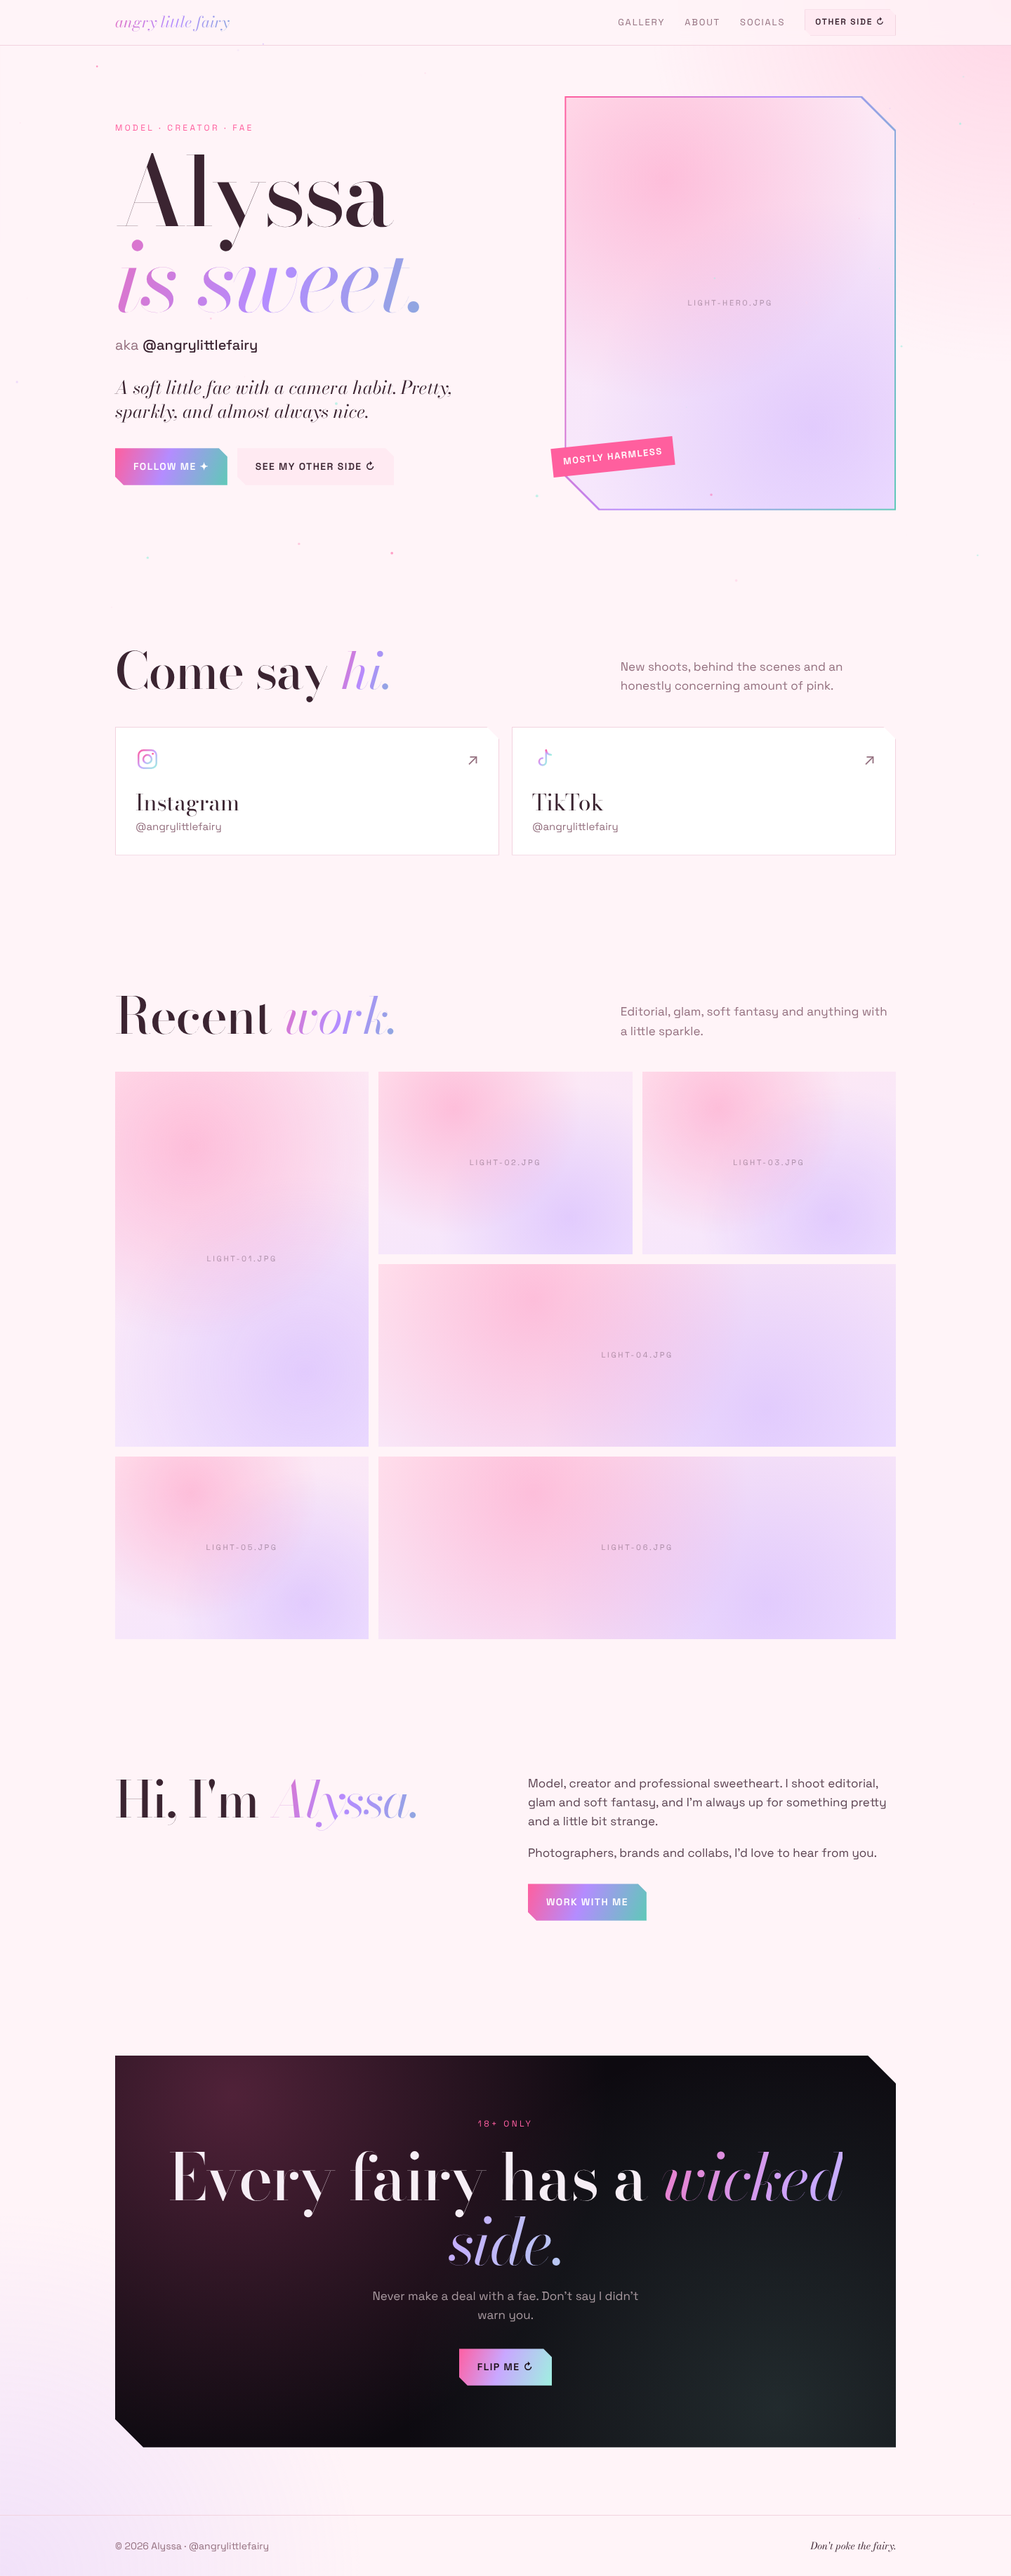
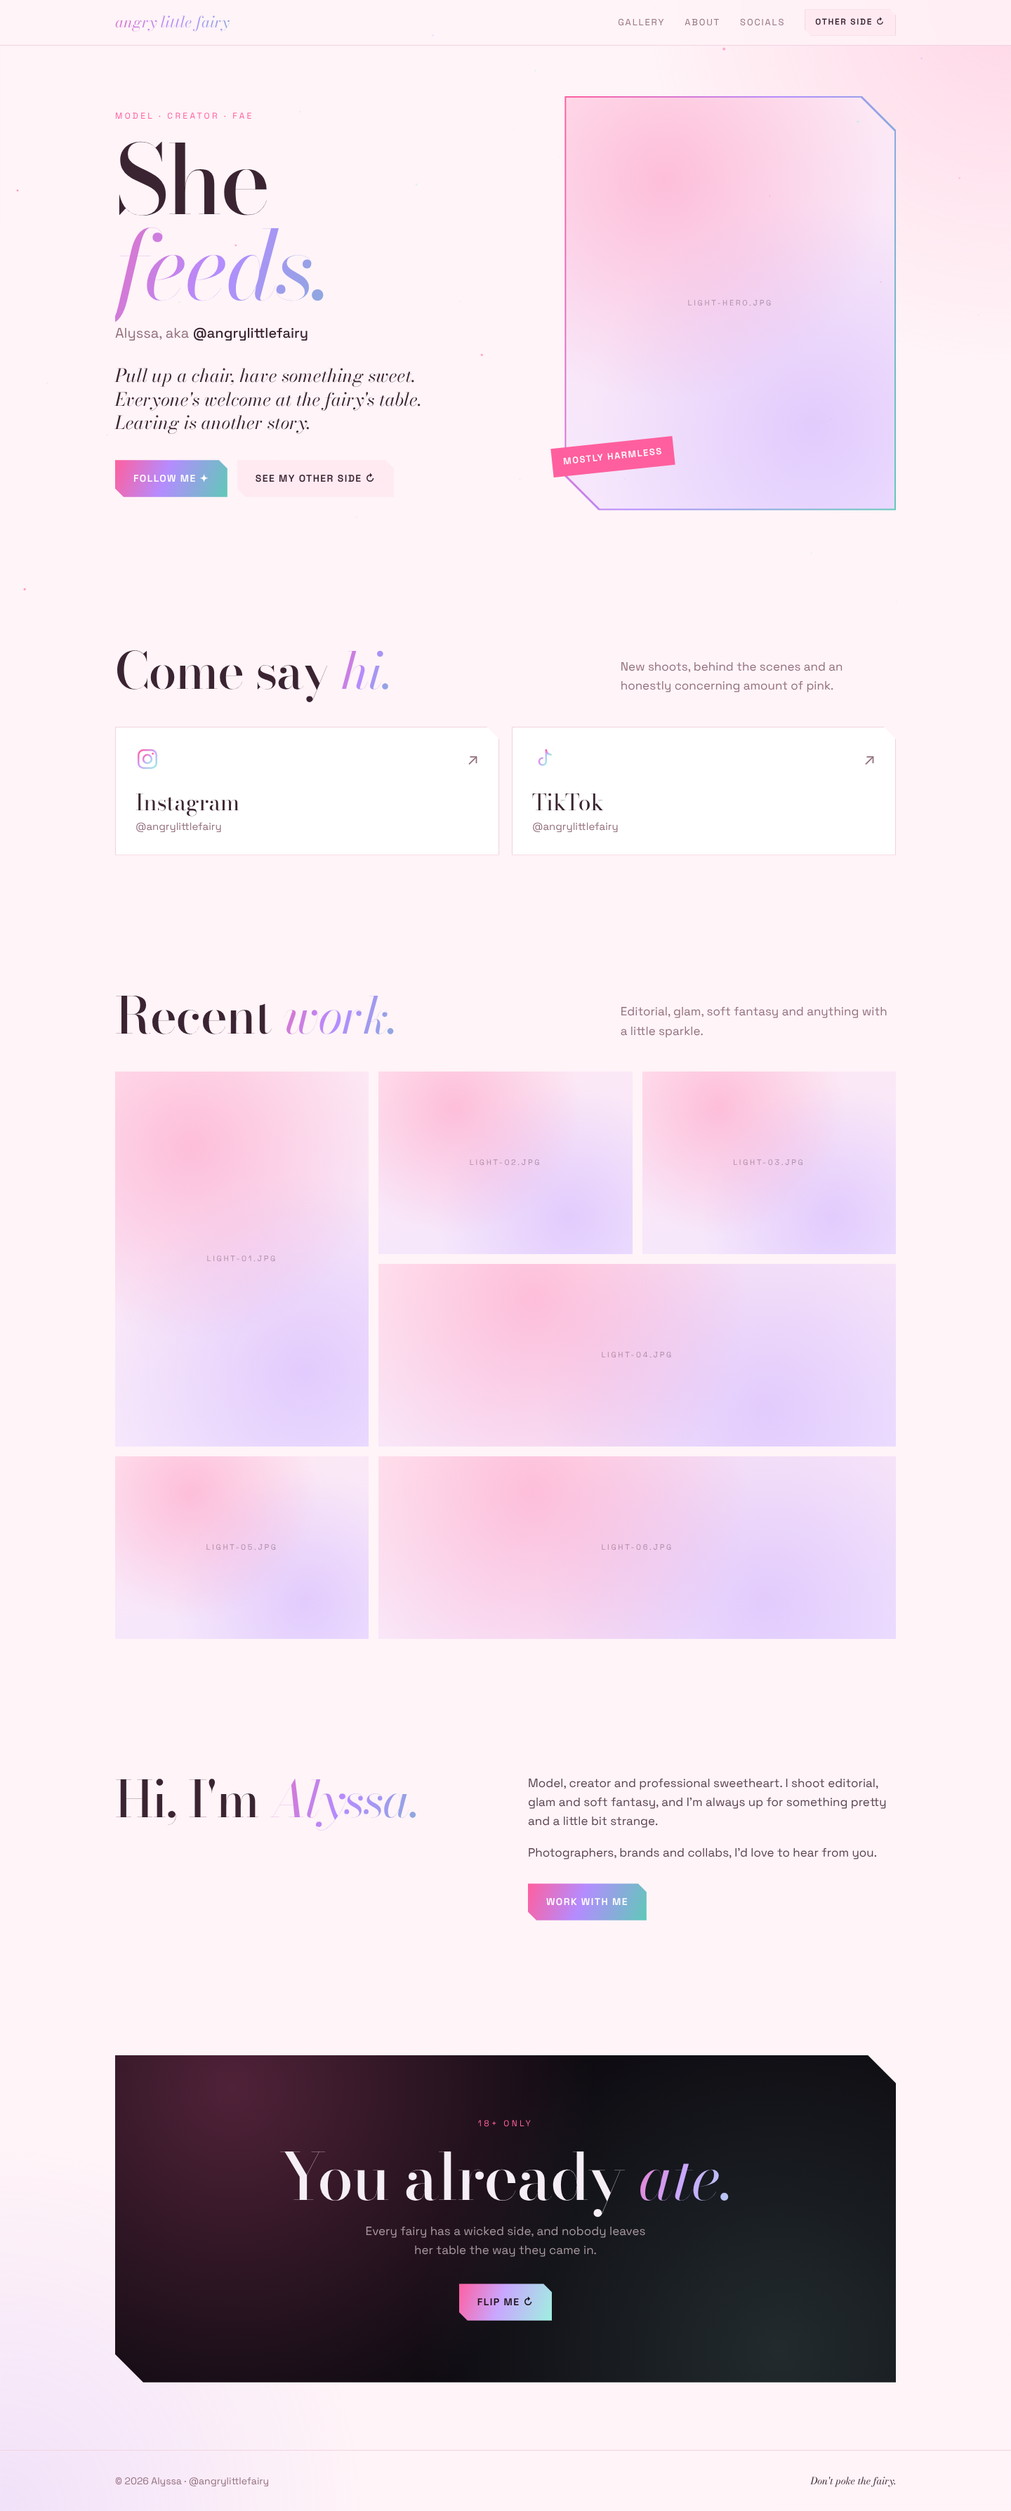
Fairy-food copy: sweet side 'She feeds', wicked side 'You pay'
Claude-Session: https://claude.ai/code/session_01Csc1tEQz1VbwPjDFxQWG6q

diff --git a/angrylittlefairy-site/index.html b/angrylittlefairy-site/index.html
@@ -4,9 +4,9 @@
 <meta charset="utf-8">
 <meta name="viewport" content="width=device-width, initial-scale=1">
 <title>Alyssa · @angrylittlefairy</title>
-<meta name="description" content="Alyssa, aka @angrylittlefairy. Model, creator and a sweet little fae. Mostly.">
+<meta name="description" content="Alyssa, aka @angrylittlefairy. Model, creator and a sweet little fae. She feeds.">
 <meta property="og:title" content="Alyssa · @angrylittlefairy">
-<meta property="og:description" content="Model, creator and a sweet little fae. Mostly.">
+<meta property="og:description" content="Model, creator and a sweet little fae. She feeds.">
 <meta property="og:image" content="https://angrylittlefairy.com/images/light-hero.jpg">
 <meta property="og:url" content="https://angrylittlefairy.com">
 <meta property="og:type" content="website">
@@ -289,10 +289,10 @@
       <div class="wrap">
         <div>
           <p class="eyebrow">Model · Creator · Fae</p>
-          <h1>Alyssa<br><em class="shimmer-text">is sweet.</em></h1>
-          <p class="handle">aka <b>@angrylittlefairy</b></p>
+          <h1>She<br><em class="shimmer-text">feeds.</em></h1>
+          <p class="handle">Alyssa, aka <b>@angrylittlefairy</b></p>
           <!-- EDIT: sweet side tagline -->
-          <p class="tagline">A soft little fae with a camera habit. Pretty, sparkly, and almost always nice.</p>
+          <p class="tagline">Pull up a chair, have something sweet. Everyone's welcome at the fairy's table. Leaving is another story.</p>
           <div class="cta-row">
             <a class="btn btn-primary" href="#l-links">Follow me ✦</a>
             <button class="btn btn-ghost" data-flip="dark">See my other side ↻</button>
@@ -370,8 +370,8 @@
       <div class="wrap">
         <div class="card">
           <p class="eyebrow">18+ only</p>
-          <h2>Every fairy has a <em class="shimmer-text">wicked side.</em></h2>
-          <p class="sub">Never make a deal with a fae. Don't say I didn't warn you.</p>
+          <h2>You already <em class="shimmer-text">ate.</em></h2>
+          <p class="sub">Every fairy has a wicked side, and nobody leaves her table the way they came in.</p>
           <button class="btn btn-primary" data-flip="dark">Flip me ↻</button>
         </div>
       </div>
@@ -395,7 +395,7 @@
         <a href="#d-tribute">Tribute</a>
         <a href="#d-about">Rules</a>
         <a href="#d-links">Socials</a>
-        <button class="flip-btn" data-flip="light">↻ Sweet side</button>
+        <button class="flip-btn" data-flip="light">↻ Try to leave</button>
       </div>
     </div>
   </nav>
@@ -405,12 +405,12 @@
       <div class="wrap">
         <div>
           <p class="eyebrow">Findom · Wicked fae · Your new expense</p>
-          <h1>She feeds.<br><em class="shimmer-text">You pay.</em></h1>
+          <h1>You<br><em class="shimmer-text">pay.</em></h1>
           <p class="handle">Alyssa, aka <b>@angrylittlefairy</b></p>
           <!-- EDIT: wicked side tagline -->
-          <p class="tagline">Tiny, mean, and very good at spending your money. Never make a deal with a fae. You'll always lose.</p>
+          <p class="tagline">You ate the fairy food. Now you're hers, and nobody leaves the fairy court with their wallet.</p>
           <div class="cta-row">
-            <a class="btn btn-primary" href="#d-tribute">Feed me ✦</a>
+            <a class="btn btn-primary" href="#d-tribute">Pay up ✦</a>
             <a class="btn btn-ghost" href="#d-links">Follow me</a>
           </div>
         </div>
@@ -462,8 +462,8 @@
     <section id="d-tribute" class="tribute">
       <div class="wrap">
         <div class="section-head">
-          <h2>Feed the <em class="shimmer-text">fairy.</em></h2>
-          <p class="section-note">No small talk before tribute. Make your offering, then you may speak.</p>
+          <h2>Settle your <em class="shimmer-text">tab.</em></h2>
+          <p class="section-note">You ate at her table. Now you pay, and you keep paying. Tribute first, then you may speak.</p>
         </div>
         <div class="links two">
           <!-- EDIT: wishlist URL (Throne etc.) -->
@@ -483,7 +483,7 @@
             <div><div class="platform">Tribute</div><div class="at">Show me you mean it</div></div>
           </a>
         </div>
-        <p class="fine">Every tribute is a gift to the fae. No refunds, no takebacks, no whining.</p>
+        <p class="fine">Every tribute is a gift to the fae. No refunds, no takebacks, no way out.<br>For entertainment between consenting adults. All tributes are voluntary and non-refundable.</p>
       </div>
     </section>
 
@@ -537,7 +537,7 @@
   <footer>
     <div class="wrap">
       <span>© <span class="yr">2026</span> Alyssa · @angrylittlefairy · 18+ only</span>
-      <em>Don't poke the fairy. Feed her.</em>
+      <em>You ate. You stay. You pay.</em>
     </div>
   </footer>
 </div>
@@ -551,7 +551,7 @@
   <div class="gate-box">
     <p class="eyebrow">Adults only</p>
     <h2>Are you <em class="shimmer-text">18<span style="font-family:var(--sans);font-style:normal;font-weight:500">+</span>?</em></h2>
-    <p>The other side is for adults. By entering you confirm you're at least 18.</p>
+    <p>One bite and you're hers. The other side is for adults only. By entering you confirm you're at least 18.</p>
     <div class="cta-row">
       <button class="btn btn-primary" id="gate-yes">Enter</button>
       <button class="btn btn-ghost" id="gate-no">Stay sweet</button>
